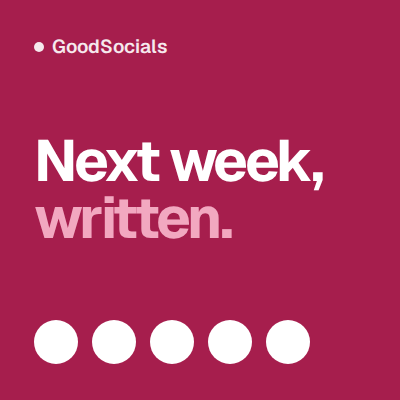
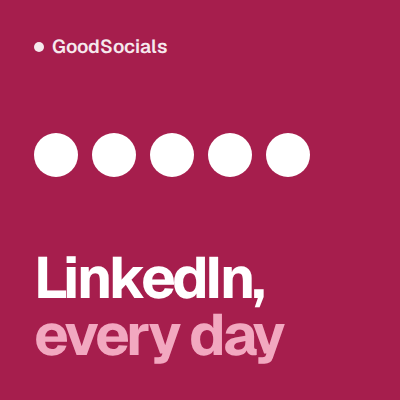
Name LinkedIn on every OpenAI ad, drop the MRR claim
The +18% MRR ad read as a promised result, so it becomes "Your data, on
LinkedIn" with a neutral bar shape. The daily and agency ads now say
LinkedIn in the headline. The voice ad is unchanged.

Claude-Session: https://claude.ai/code/session_0125xXz376QRLhfsYiiLxVZr

diff --git a/ads-openai/4-agency.html b/ads-openai/4-agency.html
@@ -7,4 +7,4 @@ body{font-family:Geist,sans-serif;background:#a61e4d;color:#fff;padding:34px 34p
 .brand i{width:10px;height:10px;border-radius:50%;background:#fff;display:block}
 .h{font-size:58px;font-weight:700;letter-spacing:-.045em;line-height:.98}
 .soft{color:#f2a8c0}
-.g{display:grid;grid-template-columns:repeat(6,34px);gap:12px}.g i{width:34px;height:34px;border-radius:50%;background:#fff;display:block}</style></head><body><div class="brand"><i></i>GoodSocials</div><div class="g"><i></i><i></i><i></i><i></i><i></i><i></i><i></i><i></i><i></i><i></i><i></i><i></i></div><div class="h">12 clients.<br><span class="soft">One board.</span></div></body></html>
+.g{display:grid;grid-template-columns:repeat(6,34px);gap:12px}.g i{width:34px;height:34px;border-radius:50%;background:#fff;display:block}</style></head><body><div class="brand"><i></i>GoodSocials</div><div class="g"><i></i><i></i><i></i><i></i><i></i><i></i><i></i><i></i><i></i><i></i><i></i><i></i></div><div class="h">12 clients<br><span class="soft">on LinkedIn</span></div></body></html>

diff --git a/ads-openai/3-data.html b/ads-openai/3-data.html
@@ -7,4 +7,4 @@ body{font-family:Geist,sans-serif;background:#a61e4d;color:#fff;padding:34px 34p
 .brand i{width:10px;height:10px;border-radius:50%;background:#fff;display:block}
 .h{font-size:58px;font-weight:700;letter-spacing:-.045em;line-height:.98}
 .soft{color:#f2a8c0}
-.n{font-size:104px;font-weight:700;letter-spacing:-.06em;line-height:.9}.n small{font-size:40px;letter-spacing:-.03em;color:#f2a8c0;margin-left:6px}</style></head><body><div class="brand"><i></i>GoodSocials</div><div class="n">+18%<small>MRR</small></div><div class="h">Metrics in,<br><span class="soft">posts out</span></div></body></html>
+.bars{display:flex;gap:12px;align-items:flex-end;height:64px}.bars i{width:34px;background:#fff;border-radius:6px;display:block}</style></head><body><div class="brand"><i></i>GoodSocials</div><div class="bars"><i style="height:40%"></i><i style="height:70%"></i><i style="height:55%"></i><i style="height:100%"></i><i style="height:80%"></i></div><div class="h">Your data,<br><span class="soft">on LinkedIn</span></div></body></html>

diff --git a/ads-openai/1-week.html b/ads-openai/1-week.html
@@ -7,4 +7,4 @@ body{font-family:Geist,sans-serif;background:#a61e4d;color:#fff;padding:34px 34p
 .brand i{width:10px;height:10px;border-radius:50%;background:#fff;display:block}
 .h{font-size:58px;font-weight:700;letter-spacing:-.045em;line-height:.98}
 .soft{color:#f2a8c0}
-.dots{display:flex;gap:14px}.dots i{width:44px;height:44px;border-radius:50%;background:#fff;display:block}</style></head><body><div class="brand"><i></i>GoodSocials</div><div class="h">Next week,<br><span class="soft">written.</span></div><div class="dots"><i></i><i></i><i></i><i></i><i></i></div></body></html>
+.dots{display:flex;gap:14px}.dots i{width:44px;height:44px;border-radius:50%;background:#fff;display:block}</style></head><body><div class="brand"><i></i>GoodSocials</div><div class="dots"><i></i><i></i><i></i><i></i><i></i></div><div class="h">LinkedIn,<br><span class="soft">every day</span></div></body></html>

diff --git a/ads-openai/gen.py b/ads-openai/gen.py
@@ -20,20 +20,20 @@ body{font-family:Geist,sans-serif;background:#a61e4d;color:#fff;padding:34px 34p
 ads = {
     # Stay visible without writing: the week, filled.
     '1-week': ('''.dots{display:flex;gap:14px}.dots i{width:44px;height:44px;border-radius:50%;background:#fff;display:block}''',
-               '<div class="h">Next week,<br><span class="soft">written.</span></div>'
-               '<div class="dots"><i></i><i></i><i></i><i></i><i></i></div>'),
+               '<div class="dots"><i></i><i></i><i></i><i></i><i></i></div>'
+               '<div class="h">LinkedIn,<br><span class="soft">every day</span></div>'),
     # Sound like me: the AI word, crossed out.
     '2-voice': ('''.x{font-size:46px;font-weight:600;letter-spacing:-.03em;color:#f2a8c0;text-decoration:line-through;text-decoration-thickness:5px;text-decoration-color:#fff}''',
                 '<div class="x">game-changing</div>'
                 '<div class="h">Sounds like<br><span class="soft">you, not AI</span></div>'),
-    # Turn traction into proof: the number is the post.
-    '3-numbers': ('''.n{font-size:104px;font-weight:700;letter-spacing:-.06em;line-height:.9}.n small{font-size:40px;letter-spacing:-.03em;color:#f2a8c0;margin-left:6px}''',
-                  '<div class="n">+18%<small>MRR</small></div>'
-                  '<div class="h">Metrics in,<br><span class="soft">posts out</span></div>'),
-    # Agency: twelve clients, one of them is you, all posting.
+    # Turn what the business already measures into posts. No invented result.
+    '3-data': ('''.bars{display:flex;gap:12px;align-items:flex-end;height:64px}.bars i{width:34px;background:#fff;border-radius:6px;display:block}''',
+               '<div class="bars"><i style="height:40%"></i><i style="height:70%"></i><i style="height:55%"></i><i style="height:100%"></i><i style="height:80%"></i></div>'
+               '<div class="h">Your data,<br><span class="soft">on LinkedIn</span></div>'),
+    # Agency: twelve clients on one board.
     '4-agency': ('''.g{display:grid;grid-template-columns:repeat(6,34px);gap:12px}.g i{width:34px;height:34px;border-radius:50%;background:#fff;display:block}''',
                  '<div class="g">' + '<i></i>' * 12 + '</div>'
-                 '<div class="h">12 clients.<br><span class="soft">One board.</span></div>'),
+                 '<div class="h">12 clients<br><span class="soft">on LinkedIn</span></div>'),
 }
 for k, (css, body) in ads.items():
     open(f'{k}.html', 'w').write(BASE % (FONT, css, body))
